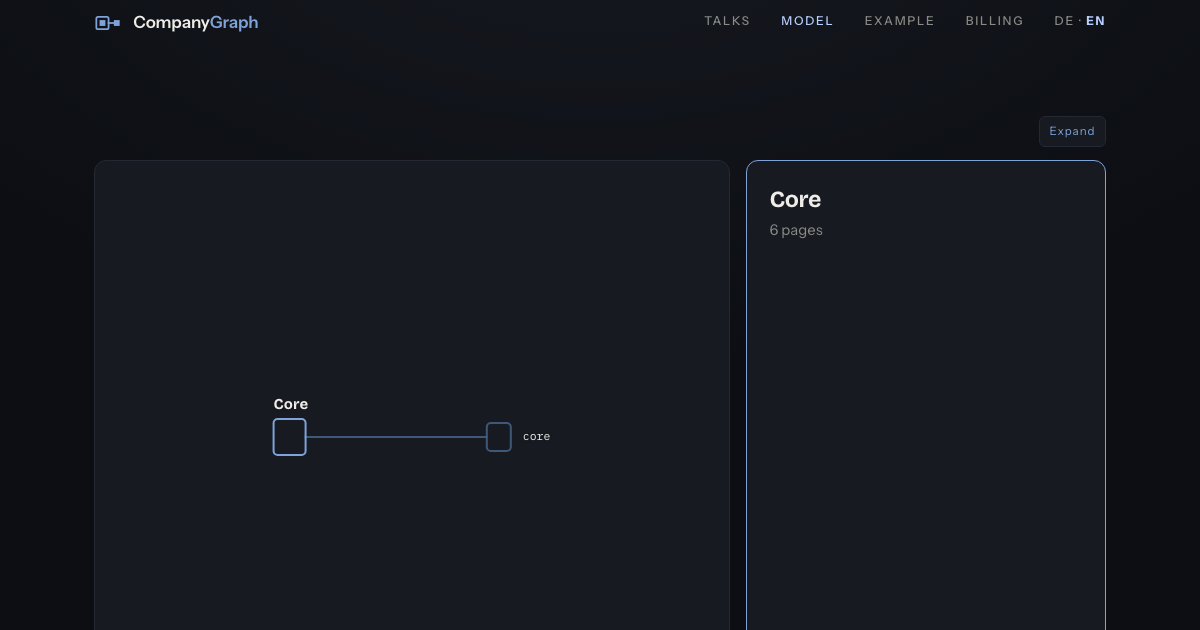
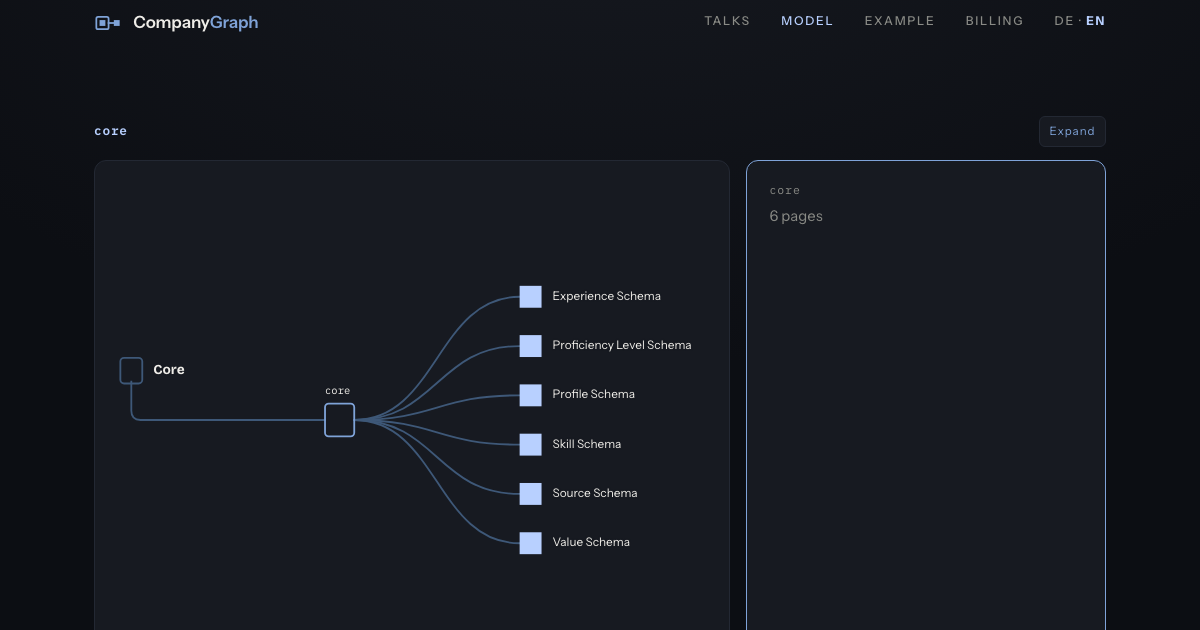
Let the nav wrap on a phone, set code as code, and open the folder on the model's card

diff --git a/stage.js b/stage.js
@@ -69,6 +69,24 @@
     return ownedTypes(n.entity.type).map(function(t){ return nFolder(n.id + "/" + t.folder, t.type, n.id); });
   }
   function ancestorsOf(n){ var out = [], p = parentOf(n); while (p) { out.unshift(p); p = parentOf(p); } return out; }
+  // The node an id names — a folder's or an entity's — found by walking down from the root
+  // through the same childrenOf() the canvas uses. An id is a path on disk, so every prefix
+  // of it is a node, and the walk needs no second index and no name from either page.
+  // Returns null for an id no page here holds, which is what a hand-edited hash looks like.
+  function nodeById(id){
+    if (!id) return null;
+    if (byId[id]) return nEntity(byId[id]);
+    var n = nRoot();
+    for (;;) {
+      var kids = childrenOf(n), next = null;
+      for (var i = 0; i < kids.length; i++) {
+        if (kids[i].id === id) return kids[i];
+        if (id.indexOf(kids[i].id + "/") === 0) { next = kids[i]; break; }
+      }
+      if (!next) return null;
+      n = next;
+    }
+  }
   function pathOf(n){ return n.kind === "root" ? [] : n.id.split("/"); }
   // Pages held: for the root every entity, for a folder everything filed beneath it — an
   // entity and the folder it owns both count as pages of the folder that holds the entity.
@@ -344,6 +362,21 @@
     return a;
   }
   function resolve(text){ for (var i = 0; i < data.entities.length; i++) if (data.entities[i].name === text) return data.entities[i].id; return null; }
+  // Markdown inline code — the one span-level mark the model's fixed shape uses. A field
+  // name, a file path, a `ref → type`: every one of them a string quoted out of a file,
+  // which is exactly what this system's mono face is for, so a card that printed the
+  // backticks was showing the markup instead of the data. Appended as text nodes and
+  // elements, never as innerHTML: these strings come out of the data block, and the day a
+  // name in the model contains a "<" an innerHTML assignment would start parsing it as
+  // markup. A backtick with no partner stays the character it is.
+  function inline(el, text){
+    String(text).split(/`([^`]+)`/).forEach(function(part, i){
+      if (!part) return;
+      el.appendChild(i % 2 ? h("code", part, "mono") : document.createTextNode(part));
+    });
+    return el;
+  }
+  function para(text, cls){ return inline(h("p", null, cls), text); }
 
   // Renders the focused node into the card's (body, foot) pair. Expand no longer copies this
   // into a second element — it moves the card itself into the dialog — so there is exactly
@@ -402,7 +435,7 @@
           var tr = h("tr");
           row.forEach(function(cell){
             var td = h("td"), id = resolve(cell);
-            if (id) td.appendChild(goLink(id)); else td.textContent = cell;
+            if (id) td.appendChild(goLink(id)); else inline(td, cell);
             tr.appendChild(td);
           });
           tb.appendChild(tr);
@@ -412,8 +445,8 @@
       // A block whose lines each open with "- " is a list in the file, so it is a line each
       // here too; anything else is a paragraph with its soft wraps closed up.
       if (s.text) s.text.split(/\n\n+/).forEach(function(par){
-        if (/^-\s/.test(par)) par.split(/\n(?=-\s)/).forEach(function(item){ bodyEl.appendChild(h("p", item.replace(/\n\s*/g, " "))); });
-        else bodyEl.appendChild(h("p", par.replace(/\n/g, " ")));
+        if (/^-\s/.test(par)) par.split(/\n(?=-\s)/).forEach(function(item){ bodyEl.appendChild(para(item.replace(/\n\s*/g, " "))); });
+        else bodyEl.appendChild(para(par.replace(/\n/g, " ")));
       });
     });
     // Mono, so it is data: the file and the commit it is pinned at, which is what the link
@@ -466,7 +499,11 @@
       var esc = s.replace(/&/g, "&amp;").replace(/</g, "&lt;");
       return i === segs.length - 1 ? "<b>" + esc + "</b>" : esc;
     }).join(" / ");
-    var hash = n.kind === "entity" ? "#" + n.id : "";
+    // Every focus but the root is a place, so every focus but the root has a URL. It used to
+    // be entities only, which made a folder unlinkable and unshareable and left Back landing
+    // on the root from halfway down a path — and the share card, which asks for a state by
+    // URL and nothing else, had no way to ask for an opened folder at all.
+    var hash = n.kind === "root" ? "" : "#" + n.id;
     if (hash) location.hash = hash;
     else if (location.hash) { try { history.replaceState(null, "", location.pathname + location.search); } catch (err) { location.hash = ""; } }
     render();
@@ -485,14 +522,15 @@
   window.addEventListener("resize", function(){ if (focused) render(); });
   window.addEventListener("hashchange", function(){
     var id = decodeURIComponent(location.hash.slice(1));
-    // An empty hash — Back past the last entity, or one naming a folder rather than an
-    // entity — means the root, not "do nothing": focus() only ever sets a hash for an
-    // entity, so a bare or unrecognised hash is what the root and every folder look like.
-    if (!id || !byId[id]) { if (!focused || focused.kind !== "root") focus(nRoot()); return; }
-    if (!focused || focused.id !== id) focus(nEntity(byId[id]));
+    // An empty hash — Back past the last focus — means the root, not "do nothing", and so
+    // does one naming nothing this page holds: focus() writes a hash for every node but the
+    // root, so a bare or unrecognised hash is exactly what the root looks like.
+    var n = nodeById(id);
+    if (!n) { if (!focused || focused.kind !== "root") focus(nRoot()); return; }
+    if (!focused || focused.id !== id) focus(n);
   });
 
   var initial = decodeURIComponent(location.hash.slice(1));
-  focus(initial && byId[initial] ? nEntity(byId[initial]) : nRoot());
+  focus(nodeById(initial) || nRoot());
   first = false;
 })();

diff --git a/stage.css b/stage.css
@@ -48,10 +48,19 @@
      the page defines, and this rule for the size and the space above its table. */
   .cbody .caption{margin-top:1.1rem; font-size:.78rem; color:var(--dim); line-height:1.45}
   .cbody .caption + table{margin-top:.35rem}
+  /* Inline code is a string quoted out of a file, so it takes the data face the page defines
+     as .mono. Sized in em against whatever it sits in — a browser's default monospace is a
+     size smaller than the prose around it — and allowed to break, because a path is one long
+     unbreakable word and the card is one column wide on a phone. */
+  .cbody code{font-size:.92em; overflow-wrap:anywhere}
   .cbody a.go{color:var(--c-mid); text-decoration:none; border-bottom:1px solid var(--c-weak); cursor:pointer}
   .cbody .empty{color:var(--dim); line-height:1.5}
   @media (max-width: 860px){
-    .stage{height:auto; grid-template-columns:1fr}
+    /* minmax(0,1fr), never a bare 1fr: a grid track sized `auto` at its floor takes the
+       widest min-content of the items in it, and the card's is a table of quoted field
+       names. On a phone that pushed the one column past the shell and scrolled the whole
+       document sideways. The card scrolls inside itself instead — .cbody already does. */
+    .stage{height:auto; grid-template-columns:minmax(0,1fr)}
     .canvas{height:52vh; min-height:360px}
     .card{height:44vh; min-height:300px}
   }

diff --git a/index.html b/index.html
@@ -193,6 +193,19 @@
      because nothing in the figure carries a static opacity, transform or dash pattern of
      its own. (The join lines are dimmed with stroke-opacity, which opacity:1 cannot
      touch.) Anything added to the figure must keep that true. */
+  @media (max-width:900px){
+    nav{gap:1.4rem}
+  }
+
+  /* Four nav items and the language control do not fit on one row on a phone, in either
+     language, and a nav that cannot wrap takes the whole document sideways with it — the
+     page scrolls horizontally and every other check here still passes. Let it wrap and hang
+     off the right edge under the lockup; the language control stays last, which is where it
+     is at every other width. */
+  @media (max-width:560px){
+    nav{flex-wrap:wrap; justify-content:flex-end; gap:.6rem 1.2rem}
+  }
+
   @media (prefers-reduced-motion: reduce){
     .figure, .figure *{
       animation:none !important; transition:none !important;

diff --git a/example/index.html b/example/index.html
@@ -171,6 +171,15 @@
     nav{gap:1.4rem}
     .tagline{max-width:100%}
   }
+
+  /* Four nav items and the language control do not fit on one row on a phone, in either
+     language, and a nav that cannot wrap takes the whole document sideways with it — the
+     page scrolls horizontally and every other check here still passes. Let it wrap and hang
+     off the right edge under the lockup; the language control stays last, which is where it
+     is at every other width. */
+  @media (max-width:560px){
+    nav{flex-wrap:wrap; justify-content:flex-end; gap:.6rem 1.2rem}
+  }
 </style>
 <!-- The stage — figure, card, expand dialog — is the one component two pages share, so
      it is a file, not a copy in each page. Relative, like every other asset here: the

diff --git a/model/index.html b/model/index.html
@@ -171,6 +171,15 @@
     nav{gap:1.4rem}
     .tagline{max-width:100%}
   }
+
+  /* Four nav items and the language control do not fit on one row on a phone, in either
+     language, and a nav that cannot wrap takes the whole document sideways with it — the
+     page scrolls horizontally and every other check here still passes. Let it wrap and hang
+     off the right edge under the lockup; the language control stays last, which is where it
+     is at every other width. */
+  @media (max-width:560px){
+    nav{flex-wrap:wrap; justify-content:flex-end; gap:.6rem 1.2rem}
+  }
 </style>
 <!-- The stage — figure, card, expand dialog — is the one component two pages share, so
      it is a file, not a copy in each page. Relative, like every other asset here: the

diff --git a/talks/index.html b/talks/index.html
@@ -148,6 +148,15 @@
     .meta{grid-column:1; text-align:left; margin-top:.4rem}
     .d{grid-column:1; max-width:100%}
   }
+
+  /* Four nav items and the language control do not fit on one row on a phone, in either
+     language, and a nav that cannot wrap takes the whole document sideways with it — the
+     page scrolls horizontally and every other check here still passes. Let it wrap and hang
+     off the right edge under the lockup; the language control stays last, which is where it
+     is at every other width. */
+  @media (max-width:560px){
+    nav{flex-wrap:wrap; justify-content:flex-end; gap:.6rem 1.2rem}
+  }
   @media (prefers-reduced-motion:reduce){
     .talk, .t, nav a{transition:none}
   }

diff --git a/billing/index.html b/billing/index.html
@@ -183,6 +183,15 @@
     nav{gap:1.4rem}
     .tagline{max-width:100%}
   }
+
+  /* Four nav items and the language control do not fit on one row on a phone, in either
+     language, and a nav that cannot wrap takes the whole document sideways with it — the
+     page scrolls horizontally and every other check here still passes. Let it wrap and hang
+     off the right edge under the lockup; the language control stays last, which is where it
+     is at every other width. */
+  @media (max-width:560px){
+    nav{flex-wrap:wrap; justify-content:flex-end; gap:.6rem 1.2rem}
+  }
 </style>
 </head>
 <body>

diff --git a/privacy/index.html b/privacy/index.html
@@ -180,6 +180,15 @@
     nav{gap:1.4rem}
     .tagline{max-width:100%}
   }
+
+  /* Four nav items and the language control do not fit on one row on a phone, in either
+     language, and a nav that cannot wrap takes the whole document sideways with it — the
+     page scrolls horizontally and every other check here still passes. Let it wrap and hang
+     off the right edge under the lockup; the language control stays last, which is where it
+     is at every other width. */
+  @media (max-width:560px){
+    nav{flex-wrap:wrap; justify-content:flex-end; gap:.6rem 1.2rem}
+  }
 </style>
 </head>
 <body>

diff --git a/CLAUDE.md b/CLAUDE.md
@@ -50,7 +50,8 @@ that lived in another repository. No CI in *this* repository can catch drift in
 - **The two stage pages are the one mechanical exception:** `/example/` and `/model/` each
   carry a data block generated from `meta-model` at the commit in `source.json` — the example
   from `example/`, the model from `core/`, one pin for both — and `npm run example:check`
-  fails when either drifts. Nothing else on either page names anything from the model.
+  fails when either drifts. Nothing else on the example page names anything from the example,
+  and nothing else on the model page names anything from the model.
 
 ## Constraints
 
@@ -142,11 +143,13 @@ that lived in another repository. No CI in *this* repository can catch drift in
   updated to match, every platform that trusts the tags renders it letterboxed or cropped —
   and nothing on the page itself reveals that, because the page never displays its own card.
   You find out from a link someone else shared, which is the worst possible way to find out.
-  `verify/check.mjs`'s `card()` check exists specifically to catch this — but it only compares
-  the *declared* numbers against the literals `"1200"`/`"630"`; it never fetches or measures
-  `og.png` itself. A card regenerated at the wrong size, corrupted, truncated, or simply left
-  stale from an earlier design would all still pass. Treat the check as guarding the tags, not
-  the image — after running `npm run og`, look at the file.
+  `verify/check.mjs`'s `card()` check exists specifically to catch this, and it does: it
+  fetches the card the tags name and reads the real width and height out of the PNG's IHDR
+  header, so a card whose pixels disagree with its tags fails, and so does one that cannot be
+  fetched at all. What it cannot see is *what the card shows*. A card of the right size,
+  rendered from a page three commits ago, passes every assertion here — that is what
+  `npm run og:check` is for, and why the two run together. After `npm run og`, look at the
+  file: neither check can tell you the picture is the right picture.
 
 - **`.figure` is hidden from the card for an editorial reason, not a spatial one — and the
   comment saying so has already been wrong twice, both times by claiming something about fit
